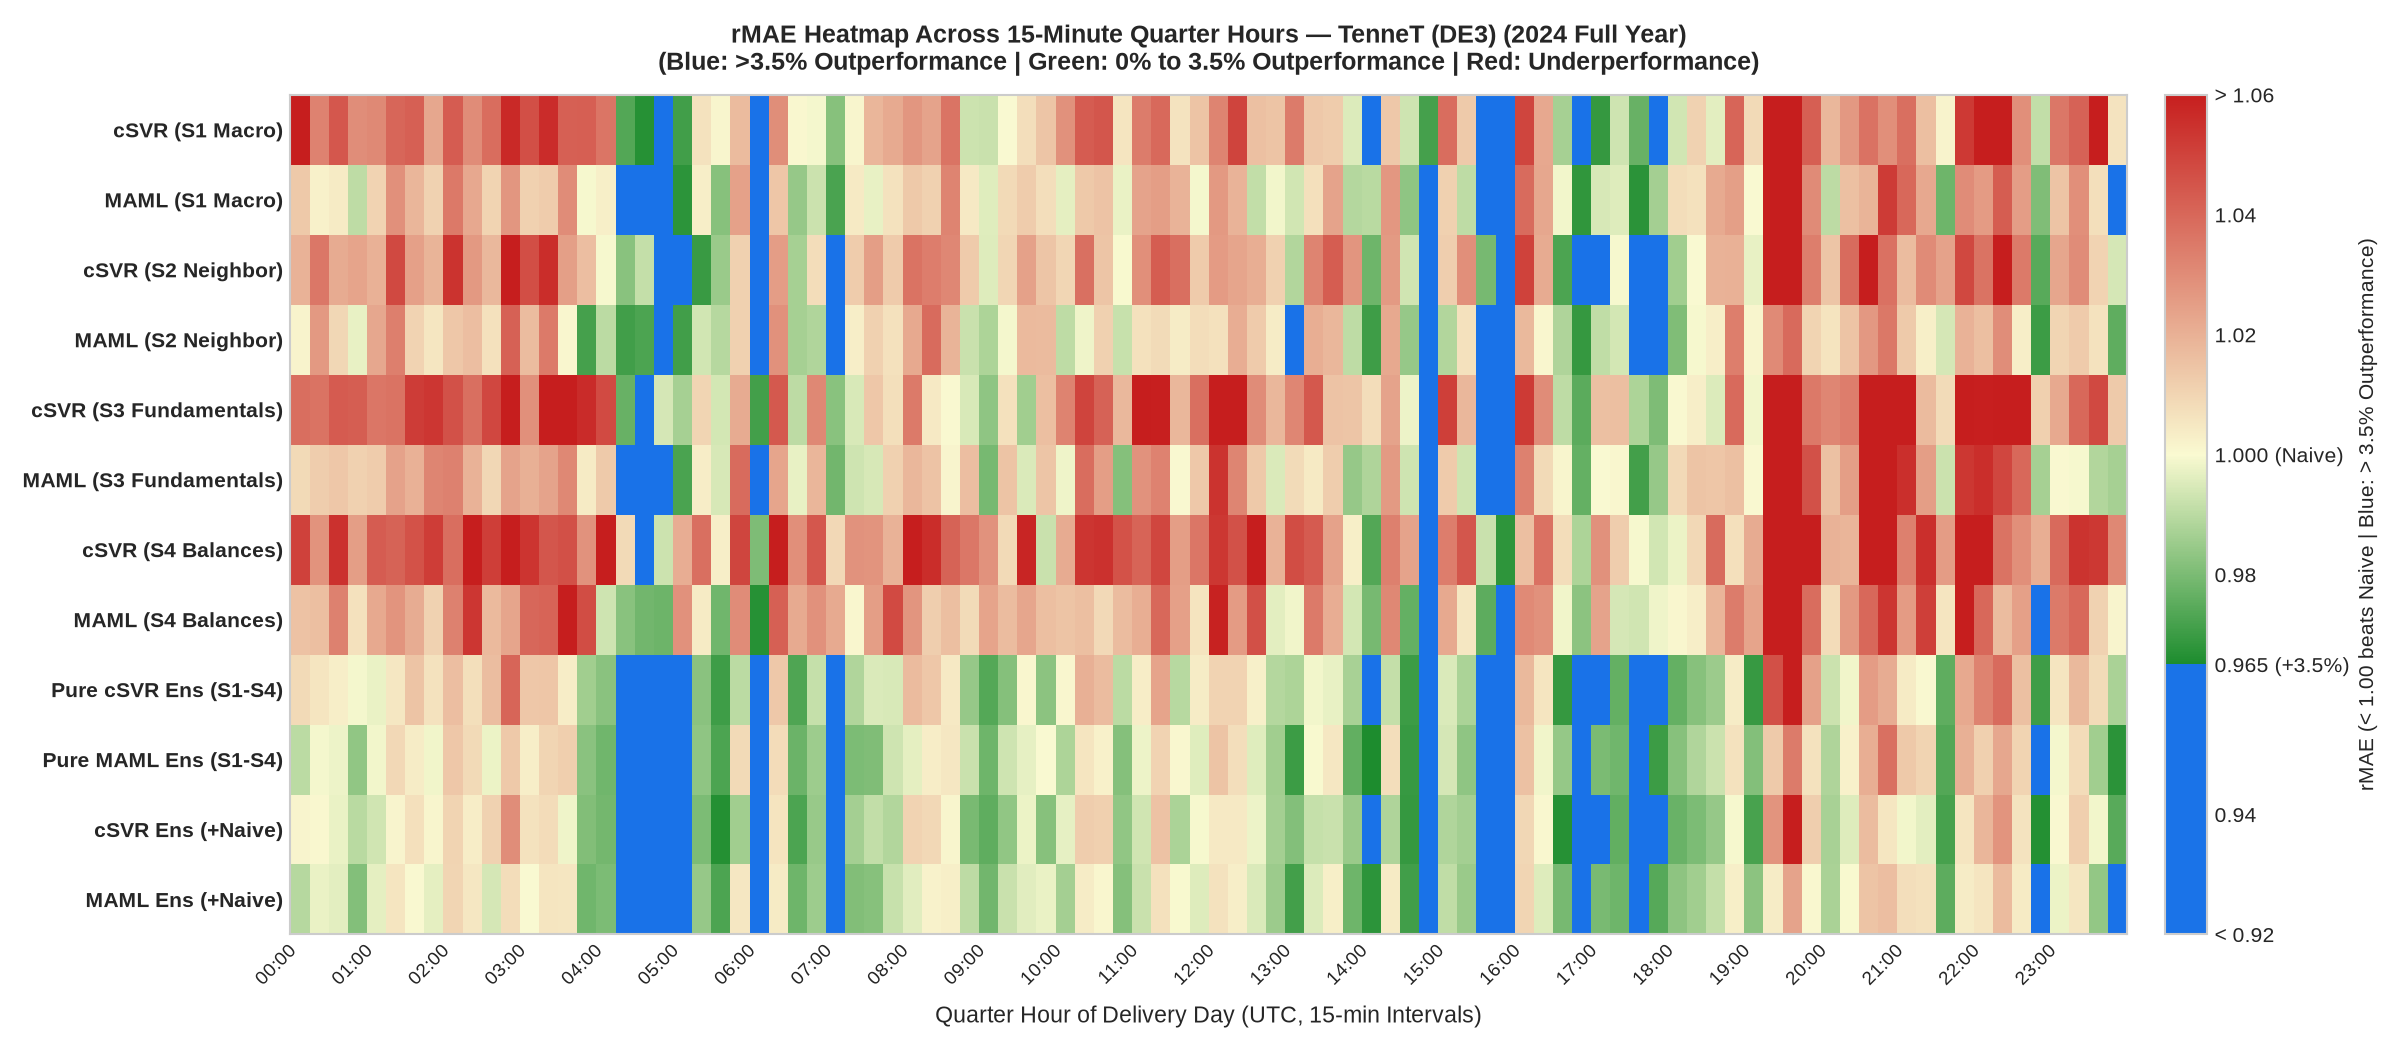
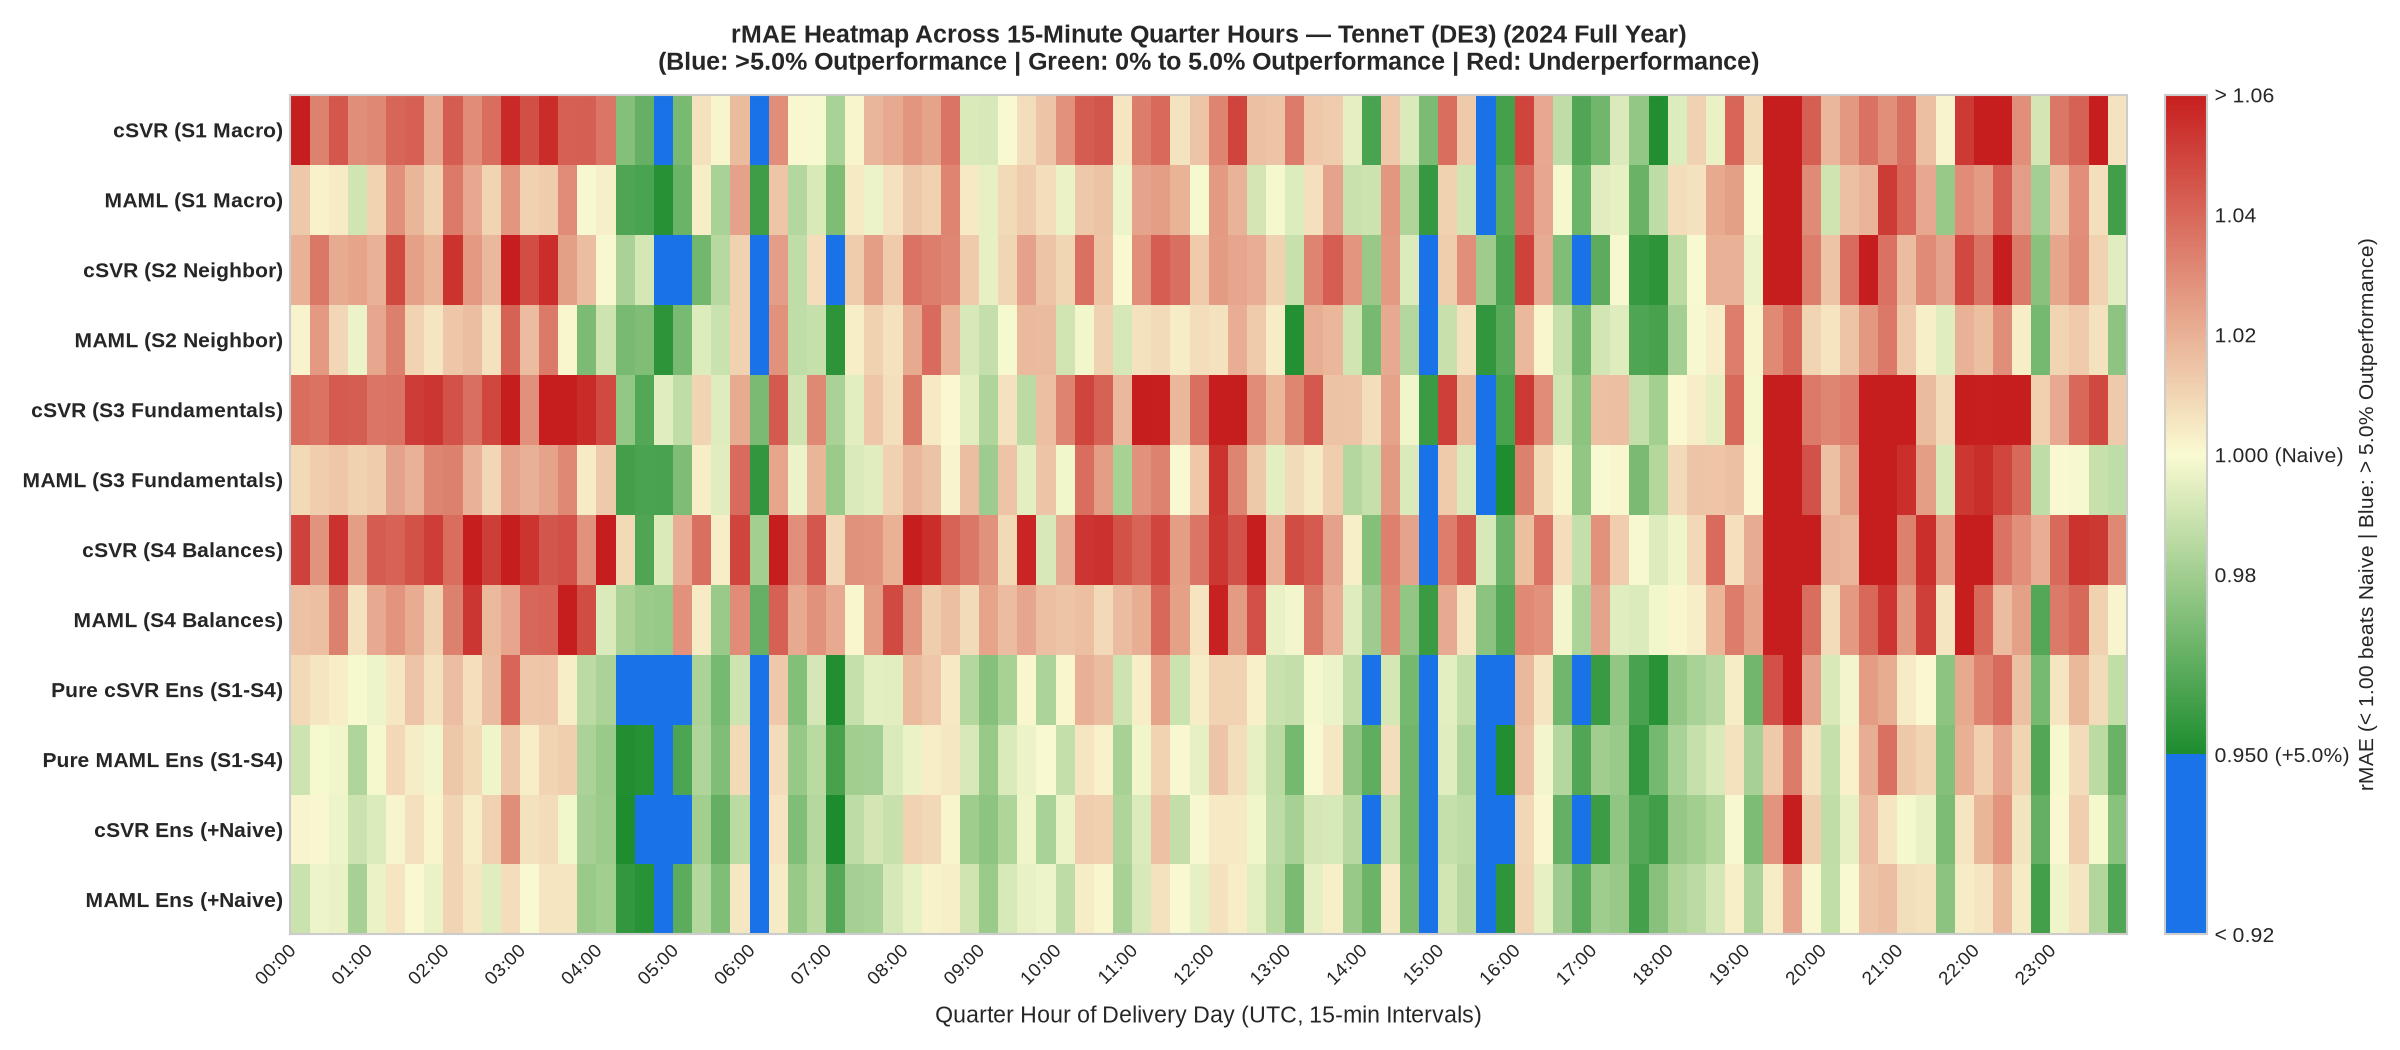
Update blue outperformance threshold to 5.0% across all 4 zones

diff --git a/Evaluation/run_full4sets_evaluation.py b/Evaluation/run_full4sets_evaluation.py
@@ -145,19 +145,19 @@ def generate_zone_plots(zone: str):
     heatmap_matrix = np.array([qh_rmae[m[0]] for m in models_to_eval[1:]])
     
     # Custom Colormap:
-    # rMAE <= 0.965 (> 3.5% Outperformance): Solid Royal Blue
-    # 0.965 < rMAE <= 1.000: Dark green to soft yellow
+    # rMAE <= 0.950 (> 5.0% Outperformance): Solid Royal Blue
+    # 0.950 < rMAE <= 1.000: Dark green to soft yellow
     # rMAE > 1.000: Soft yellow to dark red
     N = 512
     vals = np.linspace(0.92, 1.06, N)
     colors_list = []
     for v in vals:
-        if v <= 0.965:
-            # Solid Royal Blue for > 3.5% outperformance
+        if v <= 0.950:
+            # Solid Royal Blue for > 5.0% outperformance
             colors_list.append((0.10, 0.45, 0.91, 1.0))
         elif v <= 1.000:
             # Dark green to soft yellow
-            t = (v - 0.965) / (1.000 - 0.965)
+            t = (v - 0.950) / (1.000 - 0.950)
             r = 0.11 + t * (0.98 - 0.11)
             g = 0.55 + t * (0.98 - 0.55)
             b = 0.18 + t * (0.82 - 0.18)
@@ -183,13 +183,13 @@ def generate_zone_plots(zone: str):
     ax.set_yticks(range(len(models_to_eval) - 1))
     ax.set_yticklabels([m[0] for m in models_to_eval[1:]], fontsize=10, fontweight="bold")
     ax.set_xlabel("Quarter Hour of Delivery Day (UTC, 15-min Intervals)", fontsize=11, labelpad=8)
-    ax.set_title(f"rMAE Heatmap Across 15-Minute Quarter Hours — {ZONE_NAMES[zone]} (2024 Full Year)\n(Blue: >3.5% Outperformance | Green: 0% to 3.5% Outperformance | Red: Underperformance)", fontsize=12, fontweight="bold", pad=12)
+    ax.set_title(f"rMAE Heatmap Across 15-Minute Quarter Hours — {ZONE_NAMES[zone]} (2024 Full Year)\n(Blue: >5.0% Outperformance | Green: 0% to 5.0% Outperformance | Red: Underperformance)", fontsize=12, fontweight="bold", pad=12)
 
     # Colorbar
     cbar = plt.colorbar(im, ax=ax, fraction=0.025, pad=0.02)
-    cbar.set_ticks([0.92, 0.94, 0.965, 0.98, 1.00, 1.02, 1.04, 1.06])
-    cbar.set_ticklabels(["< 0.92", "0.94", "0.965 (+3.5%)", "0.98", "1.000 (Naive)", "1.02", "1.04", "> 1.06"])
-    cbar.set_label("rMAE (< 1.00 beats Naive | Blue: > 3.5% Outperformance)", fontsize=10)
+    cbar.set_ticks([0.92, 0.95, 0.98, 1.00, 1.02, 1.04, 1.06])
+    cbar.set_ticklabels(["< 0.92", "0.950 (+5.0%)", "0.98", "1.000 (Naive)", "1.02", "1.04", "> 1.06"])
+    cbar.set_label("rMAE (< 1.00 beats Naive | Blue: > 5.0% Outperformance)", fontsize=10)
 
     plt.tight_layout()
     plt.savefig(os.path.join(OUTPUT_DIR, f"full4sets_heatmap_{zone}.png"))
